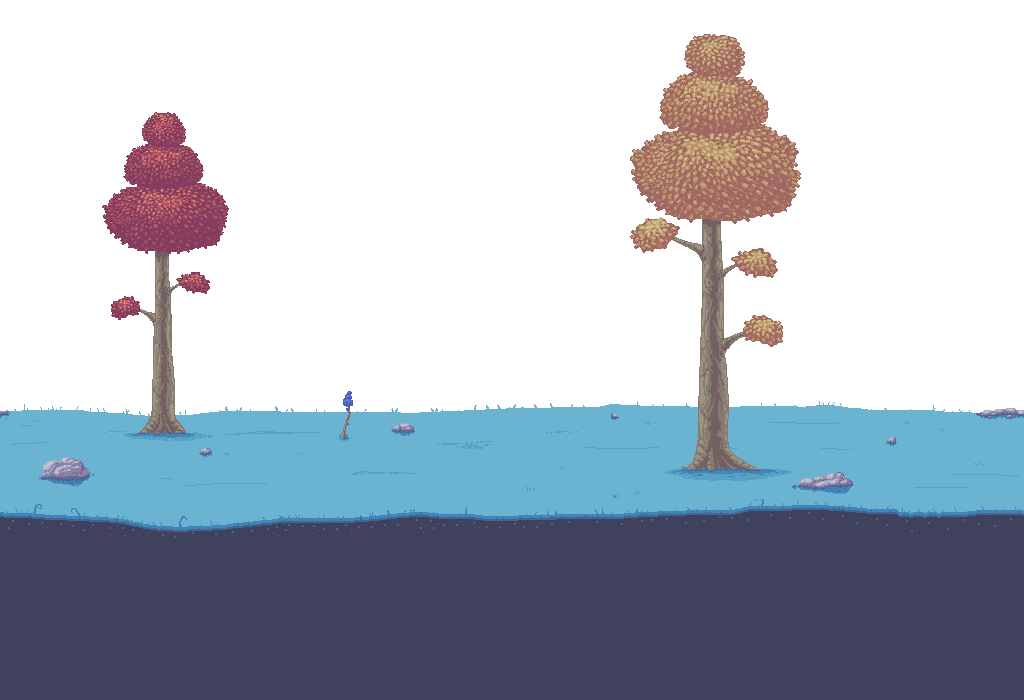
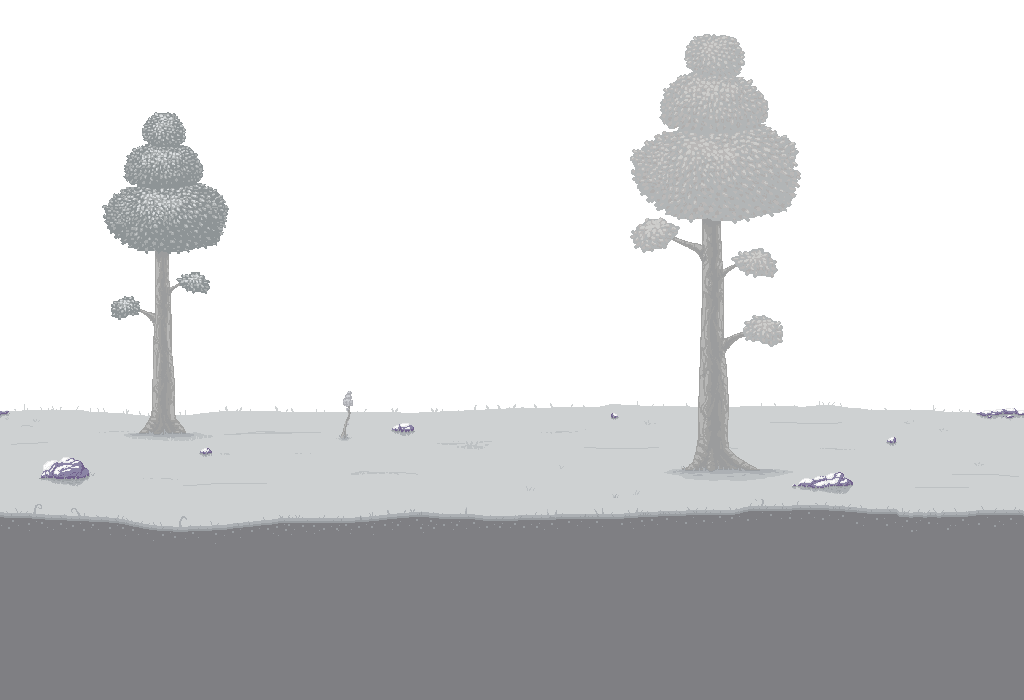
some bg's recolor

diff --git a/recolor_backgrounds.py b/recolor_backgrounds.py
@@ -1,0 +1,343 @@
+"""
+Recolor Rapture background sprites in-place.
+"""
+
+import os
+from PIL import Image
+import colorsys
+
+def recolor_cavern0(image):
+    """Cavern0: dark purple -> dark yellow"""
+    if image.mode != 'RGBA':
+        image = image.convert('RGBA')
+
+    pixels = list(image.getdata())
+    new_pixels = []
+
+    for r, g, b, a in pixels:
+        if a == 0:
+            new_pixels.append((r, g, b, a))
+            continue
+
+        h, l, s = colorsys.rgb_to_hls(r/255, g/255, b/255)
+
+        # Purple hue is around 0.75-0.85 (270-310 degrees)
+        # Shift purple to dark yellow/gold (hue ~0.12-0.15)
+        if 0.65 < h < 0.95:  # Purple/violet range
+            h = 0.12  # Gold/yellow
+
+        r2, g2, b2 = colorsys.hls_to_rgb(h, l, s)
+        new_pixels.append((int(r2*255), int(g2*255), int(b2*255), a))
+
+    result = Image.new('RGBA', image.size)
+    result.putdata(new_pixels)
+    return result
+
+def recolor_surface2(image):
+    """Surface2: lavender/pinks -> light yellow, greens/blues -> white"""
+    if image.mode != 'RGBA':
+        image = image.convert('RGBA')
+
+    pixels = list(image.getdata())
+    new_pixels = []
+
+    for r, g, b, a in pixels:
+        if a == 0:
+            new_pixels.append((r, g, b, a))
+            continue
+
+        h, l, s = colorsys.rgb_to_hls(r/255, g/255, b/255)
+
+        # Skip very low saturation (true greys) - preserve them
+        if s < 0.08:
+            new_pixels.append((r, g, b, a))
+            continue
+
+        # Lavender/pinks/magentas (hue ~0.75-1.0 or 0.0-0.05) -> light yellow
+        if h > 0.75 or h < 0.05:
+            h = 0.15  # Light yellow
+            l = min(1.0, l + 0.1)  # Brighten slightly
+        # Greens (hue ~0.25-0.45) -> white
+        elif 0.25 < h < 0.45:
+            s = s * 0.1  # Desaturate to white
+            l = min(1.0, l + 0.2)
+        # Blues/teals (hue ~0.45-0.75) -> white
+        elif 0.45 <= h <= 0.75:
+            s = s * 0.1  # Desaturate to white
+            l = min(1.0, l + 0.15)
+
+        r2, g2, b2 = colorsys.hls_to_rgb(h, l, s)
+        new_pixels.append((int(r2*255), int(g2*255), int(b2*255), a))
+
+    result = Image.new('RGBA', image.size)
+    result.putdata(new_pixels)
+    return result
+
+def recolor_surface1(image):
+    """Surface1: light blues->white, browns->white, reds/purples->sky blue, oranges->sky blue, greens->banana"""
+    if image.mode != 'RGBA':
+        image = image.convert('RGBA')
+
+    pixels = list(image.getdata())
+    new_pixels = []
+
+    for r, g, b, a in pixels:
+        if a == 0:
+            new_pixels.append((r, g, b, a))
+            continue
+
+        h, l, s = colorsys.rgb_to_hls(r/255, g/255, b/255)
+
+        # Skip very low saturation (true greys) - preserve them
+        if s < 0.08:
+            new_pixels.append((r, g, b, a))
+            continue
+
+        # Browns/trunk (hue ~0.02-0.15, lower saturation or darker) -> grey-white
+        if 0.02 < h < 0.15 and (s < 0.45 or l < 0.45):
+            s = s * 0.05  # Desaturate to grey-white
+            l = min(1.0, l + 0.15)
+        # Light blues (hue ~0.5-0.7) -> white (desaturate)
+        elif 0.5 < h < 0.7:
+            s = s * 0.1  # Nearly desaturate to white
+            l = min(1.0, l + 0.2)  # Brighten
+        # Purple-reds (hue ~0.8-1.0) -> sky blue
+        elif h > 0.8:
+            h = 0.55  # Sky blue
+        # Reds (hue ~0.0-0.04) -> sky blue
+        elif h < 0.04:
+            h = 0.55  # Sky blue
+        # Oranges and orange-yellows (hue ~0.04-0.14) -> sky blue
+        elif 0.04 <= h < 0.14:
+            h = 0.55  # Sky blue
+        # Greens (hue ~0.2-0.45) -> banana
+        elif 0.2 < h < 0.45:
+            h = 0.14  # Banana yellow
+
+        r2, g2, b2 = colorsys.hls_to_rgb(h, l, s)
+        new_pixels.append((int(r2*255), int(g2*255), int(b2*255), a))
+
+    result = Image.new('RGBA', image.size)
+    result.putdata(new_pixels)
+    return result
+
+def recolor_ice2_3(image):
+    """Ice2/3: darken yellows -> bright banana/gold (boost lightness)"""
+    if image.mode != 'RGBA':
+        image = image.convert('RGBA')
+
+    pixels = list(image.getdata())
+    new_pixels = []
+
+    for r, g, b, a in pixels:
+        if a == 0:
+            new_pixels.append((r, g, b, a))
+            continue
+
+        h, l, s = colorsys.rgb_to_hls(r/255, g/255, b/255)
+
+        # Yellow/gold range (hue ~0.08-0.20) - brighten them
+        if 0.05 < h < 0.22 and s > 0.15:
+            # Boost lightness toward brighter banana gold
+            l = min(1.0, l * 1.25 + 0.1)
+            # Shift hue slightly toward bright banana yellow
+            h = 0.14
+            # Boost saturation slightly
+            s = min(1.0, s * 1.15)
+
+        r2, g2, b2 = colorsys.hls_to_rgb(h, l, s)
+        new_pixels.append((int(r2*255), int(g2*255), int(b2*255), a))
+
+    result = Image.new('RGBA', image.size)
+    result.putdata(new_pixels)
+    return result
+
+def recolor_ice1(image):
+    """Ice1: pinks -> bright gold/banana yellow"""
+    if image.mode != 'RGBA':
+        image = image.convert('RGBA')
+
+    pixels = list(image.getdata())
+    new_pixels = []
+
+    for r, g, b, a in pixels:
+        if a == 0:
+            new_pixels.append((r, g, b, a))
+            continue
+
+        h, l, s = colorsys.rgb_to_hls(r/255, g/255, b/255)
+
+        # Pink/magenta (hue ~0.85-1.0 or 0.0-0.1) -> bright gold/banana yellow
+        if h > 0.8 or h < 0.1:
+            h = 0.14  # Bright gold/banana yellow
+
+        r2, g2, b2 = colorsys.hls_to_rgb(h, l, s)
+        new_pixels.append((int(r2*255), int(g2*255), int(b2*255), a))
+
+    result = Image.new('RGBA', image.size)
+    result.putdata(new_pixels)
+    return result
+
+def recolor_cavern1(image):
+    """Cavern1: purples -> golds, pink -> sky blue, preserve grays"""
+    if image.mode != 'RGBA':
+        image = image.convert('RGBA')
+
+    pixels = list(image.getdata())
+    new_pixels = []
+
+    for r, g, b, a in pixels:
+        if a == 0:
+            new_pixels.append((r, g, b, a))
+            continue
+
+        h, l, s = colorsys.rgb_to_hls(r/255, g/255, b/255)
+
+        # Skip grays (low saturation) - preserve them
+        if s < 0.15:
+            new_pixels.append((r, g, b, a))
+            continue
+
+        # Pink (hue ~0.9-1.0 or 0.0-0.05) -> sky blue (hue ~0.55)
+        if h > 0.9 or h < 0.05:
+            h = 0.55  # Sky blue
+        # Purple/violet/blue (0.6-0.85) -> gold
+        elif 0.6 < h < 0.85:
+            h = 0.12  # Gold
+
+        r2, g2, b2 = colorsys.hls_to_rgb(h, l, s)
+        new_pixels.append((int(r2*255), int(g2*255), int(b2*255), a))
+
+    result = Image.new('RGBA', image.size)
+    result.putdata(new_pixels)
+    return result
+
+def main():
+    bg_dir = os.path.join(os.path.dirname(os.path.abspath(__file__)),
+                          "Content", "Biomes", "Backgrounds")
+
+    # Process Cavern0
+    cavern0_path = os.path.join(bg_dir, "RaptureCavern0.png")
+    if os.path.exists(cavern0_path):
+        print(f"Processing RaptureCavern0.png...")
+        img = Image.open(cavern0_path)
+        recolored = recolor_cavern0(img)
+        recolored.save(cavern0_path)
+        print("  Done!")
+    else:
+        print(f"  WARNING: {cavern0_path} not found")
+
+    # Process Surface2_Close
+    surf2_close = os.path.join(bg_dir, "RaptureSurface2_Close.png")
+    if os.path.exists(surf2_close):
+        print(f"Processing RaptureSurface2_Close.png...")
+        img = Image.open(surf2_close)
+        recolored = recolor_surface2(img)
+        recolored.save(surf2_close)
+        print("  Done!")
+    else:
+        print(f"  WARNING: {surf2_close} not found")
+
+    # Process Surface2_Mid
+    surf2_mid = os.path.join(bg_dir, "RaptureSurface2_Mid.png")
+    if os.path.exists(surf2_mid):
+        print(f"Processing RaptureSurface2_Mid.png...")
+        img = Image.open(surf2_mid)
+        recolored = recolor_surface2(img)
+        recolored.save(surf2_mid)
+        print("  Done!")
+    else:
+        print(f"  WARNING: {surf2_mid} not found")
+
+    # Process Surface2_Far
+    surf2_far = os.path.join(bg_dir, "RaptureSurface2_Far.png")
+    if os.path.exists(surf2_far):
+        print(f"Processing RaptureSurface2_Far.png...")
+        img = Image.open(surf2_far)
+        recolored = recolor_surface2(img)
+        recolored.save(surf2_far)
+        print("  Done!")
+    else:
+        print(f"  WARNING: {surf2_far} not found")
+
+    # Process Surface1_Close
+    surf1_close = os.path.join(bg_dir, "RaptureSurface1_Close.png")
+    if os.path.exists(surf1_close):
+        print(f"Processing RaptureSurface1_Close.png...")
+        img = Image.open(surf1_close)
+        recolored = recolor_surface1(img)
+        recolored.save(surf1_close)
+        print("  Done!")
+    else:
+        print(f"  WARNING: {surf1_close} not found")
+
+    # Process Surface1_Mid
+    surf1_mid = os.path.join(bg_dir, "RaptureSurface1_Mid.png")
+    if os.path.exists(surf1_mid):
+        print(f"Processing RaptureSurface1_Mid.png...")
+        img = Image.open(surf1_mid)
+        recolored = recolor_surface1(img)
+        recolored.save(surf1_mid)
+        print("  Done!")
+    else:
+        print(f"  WARNING: {surf1_mid} not found")
+
+    # Process Surface1_Far
+    surf1_far = os.path.join(bg_dir, "RaptureSurface1_Far.png")
+    if os.path.exists(surf1_far):
+        print(f"Processing RaptureSurface1_Far.png...")
+        img = Image.open(surf1_far)
+        recolored = recolor_surface1(img)
+        recolored.save(surf1_far)
+        print("  Done!")
+    else:
+        print(f"  WARNING: {surf1_far} not found")
+
+    # Process Ice2
+    ice2_path = os.path.join(bg_dir, "RaptureIce2.png")
+    if os.path.exists(ice2_path):
+        print(f"Processing RaptureIce2.png...")
+        img = Image.open(ice2_path)
+        recolored = recolor_ice2_3(img)
+        recolored.save(ice2_path)
+        print("  Done!")
+    else:
+        print(f"  WARNING: {ice2_path} not found")
+
+    # Process Ice3
+    ice3_path = os.path.join(bg_dir, "RaptureIce3.png")
+    if os.path.exists(ice3_path):
+        print(f"Processing RaptureIce3.png...")
+        img = Image.open(ice3_path)
+        recolored = recolor_ice2_3(img)
+        recolored.save(ice3_path)
+        print("  Done!")
+    else:
+        print(f"  WARNING: {ice3_path} not found")
+
+    # Process Ice1
+    ice1_path = os.path.join(bg_dir, "RaptureIce1.png")
+    if os.path.exists(ice1_path):
+        print(f"Processing RaptureIce1.png...")
+        img = Image.open(ice1_path)
+        recolored = recolor_ice1(img)
+        recolored.save(ice1_path)
+        print("  Done!")
+    else:
+        print(f"  WARNING: {ice1_path} not found")
+
+    # Process Cavern1
+    cavern1_path = os.path.join(bg_dir, "RaptureCavern1.png")
+    if os.path.exists(cavern1_path):
+        print(f"Processing RaptureCavern1.png...")
+        img = Image.open(cavern1_path)
+        recolored = recolor_cavern1(img)
+        recolored.save(cavern1_path)
+        print("  Done!")
+    else:
+        print(f"  WARNING: {cavern1_path} not found")
+
+    print("\nComplete!")
+
+if __name__ == "__main__":
+    main()
